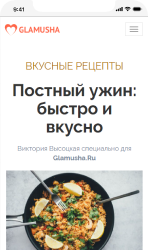
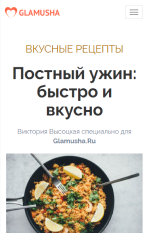
v2

diff --git a/index.html b/index.html
@@ -89,7 +89,7 @@
                             </span>
                         </span>
                         <span class="accordion__body">
-                            <p class="text accordion__text">Время выполнения всех скриптов на странице, необходимых для отрисовки страницы. Не должно превышать 2000 миллисекунд. <a href="#">Ссылка</a></p>
+                            <span class="text accordion__text">Время выполнения всех скриптов на странице, необходимых для отрисовки страницы. Не должно превышать 2000 миллисекунд. <a href="#">Ссылка</a></span>
                         </span>
                     </label>
                     <label class="accordion">
@@ -103,7 +103,7 @@
                         </span>
                        
                         <span class="accordion__body">
-                            <p class="text accordion__text">Время выполнения всех скриптов на странице, необходимых для отрисовки страницы. Не должно превышать 2000 миллисекунд. <a href="#">Ссылка</a></p>
+                            <span class="text accordion__text">Время выполнения всех скриптов на странице, необходимых для отрисовки страницы. Не должно превышать 2000 миллисекунд. <a href="#">Ссылка</a></span>
                         </span>
                     </label>
                     <label class="accordion">
@@ -117,7 +117,7 @@
                         </span>
                         
                         <span class="accordion__body">
-                            <p class="text accordion__text">Время выполнения всех скриптов на странице, необходимых для отрисовки страницы. Не должно превышать 2000 миллисекунд. <a href="#">Ссылка</a></p>
+                            <span class="text accordion__text">Время выполнения всех скриптов на странице, необходимых для отрисовки страницы. Не должно превышать 2000 миллисекунд. <a href="#">Ссылка</a></span>
                         </span>
                     </label>
                     <label class="accordion">
@@ -131,7 +131,7 @@
                         </span>
                         
                         <span class="accordion__body">
-                            <p class="text accordion__text">Время выполнения всех скриптов на странице, необходимых для отрисовки страницы. Не должно превышать 2000 миллисекунд. <a href="#">Ссылка</a></p>
+                            <span class="text accordion__text">Время выполнения всех скриптов на странице, необходимых для отрисовки страницы. Не должно превышать 2000 миллисекунд. <a href="#">Ссылка</a></span>
                         </span>
                     </label>
                     <label class="accordion">
@@ -145,7 +145,7 @@
                         </span>
                         
                         <span class="accordion__body">
-                            <p class="text accordion__text">Время выполнения всех скриптов на странице, необходимых для отрисовки страницы. Не должно превышать 2000 миллисекунд. <a href="#">Ссылка</a></p>
+                            <span class="text accordion__text">Время выполнения всех скриптов на странице, необходимых для отрисовки страницы. Не должно превышать 2000 миллисекунд. <a href="#">Ссылка</a></span>
                         </span>
                     </label>
                     <label class="accordion">
@@ -159,7 +159,7 @@
                         </span>
                         
                         <span class="accordion__body">
-                            <p class="text accordion__text">Время выполнения всех скриптов на странице, необходимых для отрисовки страницы. Не должно превышать 2000 миллисекунд. <a href="#">Ссылка</a></p>
+                            <span class="text accordion__text">Время выполнения всех скриптов на странице, необходимых для отрисовки страницы. Не должно превышать 2000 миллисекунд. <a href="#">Ссылка</a></span>
                         </span>
                     </label>
                 </div>
@@ -184,7 +184,7 @@
                         </span>
                         
                         <span class="accordion__body">
-                            <p class="text accordion__text">Время выполнения всех скриптов на странице, необходимых для отрисовки страницы. Не должно превышать 2000 миллисекунд. <a href="#">Ссылка</a></p>
+                            <span class="text accordion__text">Время выполнения всех скриптов на странице, необходимых для отрисовки страницы. Не должно превышать 2000 миллисекунд. <a href="#">Ссылка</a></span>
                         </span>
                     </label>
                     <label class="accordion">
@@ -198,7 +198,7 @@
                         </span>
                         
                         <span class="accordion__body">
-                            <p class="text accordion__text">Время выполнения всех скриптов на странице, необходимых для отрисовки страницы. Не должно превышать 2000 миллисекунд. <a href="#">Ссылка</a></p>
+                            <span class="text accordion__text">Время выполнения всех скриптов на странице, необходимых для отрисовки страницы. Не должно превышать 2000 миллисекунд. <a href="#">Ссылка</a></span>
                         </span>
                     </label>
                     <label class="accordion">
@@ -212,7 +212,7 @@
                         </span>
                         
                         <span class="accordion__body">
-                            <p class="text accordion__text">Время выполнения всех скриптов на странице, необходимых для отрисовки страницы. Не должно превышать 2000 миллисекунд. <a href="#">Ссылка</a></p>
+                            <span class="text accordion__text">Время выполнения всех скриптов на странице, необходимых для отрисовки страницы. Не должно превышать 2000 миллисекунд. <a href="#">Ссылка</a></span>
                         </span>
                     </label>
                     <label class="accordion">
@@ -226,7 +226,7 @@
                         </span>
                         
                         <span class="accordion__body">
-                            <p class="text accordion__text">Сумма всех периодов от первой отрисовки контента до загрузки для взаимодействия, когда время выполнения задач превышало 50 мс. Идеальный показатель до 200 мс. <a href="#">Ссылка</a></p>
+                            <span class="text accordion__text">Сумма всех периодов от первой отрисовки контента до загрузки для взаимодействия, когда время выполнения задач превышало 50 мс. Идеальный показатель до 200 мс. <a href="#">Ссылка</a></span>
                         </span>
                     </label>
                     <label class="accordion">
@@ -240,7 +240,7 @@
                         </span>
                        
                         <span class="accordion__body">
-                            <p class="text accordion__text">Время выполнения всех скриптов на странице, необходимых для отрисовки страницы. Не должно превышать 2000 миллисекунд. <a href="#">Ссылка</a></p>
+                            <span class="text accordion__text">Время выполнения всех скриптов на странице, необходимых для отрисовки страницы. Не должно превышать 2000 миллисекунд. <a href="#">Ссылка</a></span>
                         </span>
                     </label>
                     <label class="accordion">
@@ -254,7 +254,7 @@
                         </span>
                         
                         <span class="accordion__body">
-                            <p class="text accordion__text">Время выполнения всех скриптов на странице, необходимых для отрисовки страницы. Не должно превышать 2000 миллисекунд. <a href="#">Ссылка</a></p>
+                            <span class="text accordion__text">Время выполнения всех скриптов на странице, необходимых для отрисовки страницы. Не должно превышать 2000 миллисекунд. <a href="#">Ссылка</a></span>
                         </span>
                     </label>
                 </div>

diff --git a/assets/scss/main.scss b/assets/scss/main.scss
@@ -114,9 +114,9 @@
         transform: translateX(-50%);
     }
     &__phone-screen {
-        max-width: 134px;
+        max-width: 129px;
         position: absolute;
-        bottom: -3px;
+        bottom: 2px;
         left: 50%;
         transform: translateX(-50%);
     }
@@ -245,6 +245,7 @@
     }
 
     &__text {
+        display: block;
     	padding: 10px 0;
     	a{
     		color: $blue;

diff --git a/css/style.css b/css/style.css
@@ -197,9 +197,9 @@ html {
   transform: translateX(-50%);
 }
 .background-box__phone-screen {
-  max-width: 134px;
+  max-width: 129px;
   position: absolute;
-  bottom: -3px;
+  bottom: 2px;
   left: 50%;
   transform: translateX(-50%);
 }
@@ -314,6 +314,7 @@ html {
   display: none;
 }
 .accordion__text {
+  display: block;
   padding: 10px 0;
 }
 .accordion__text a {
